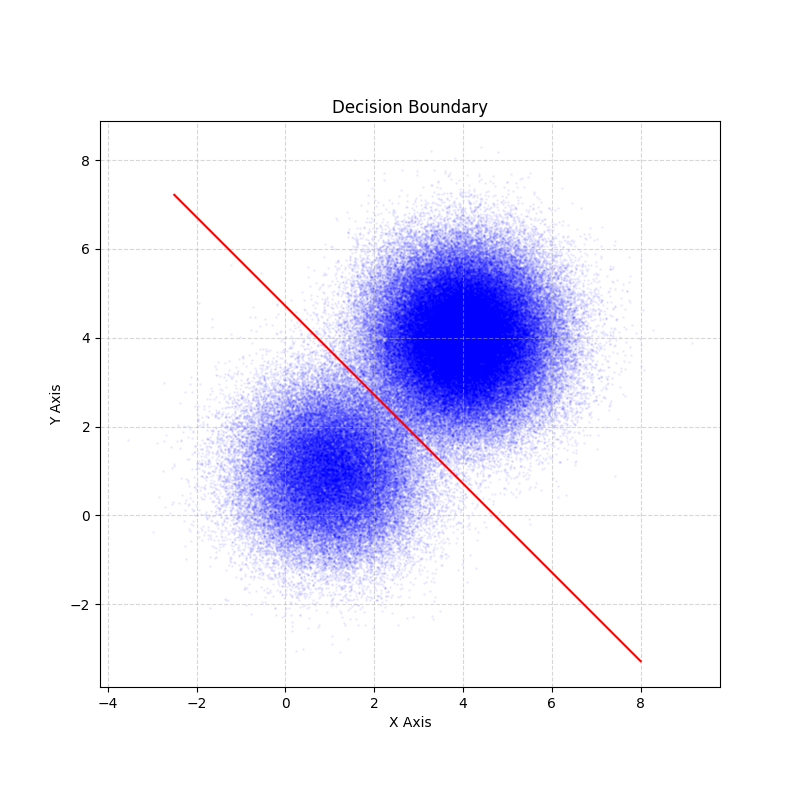
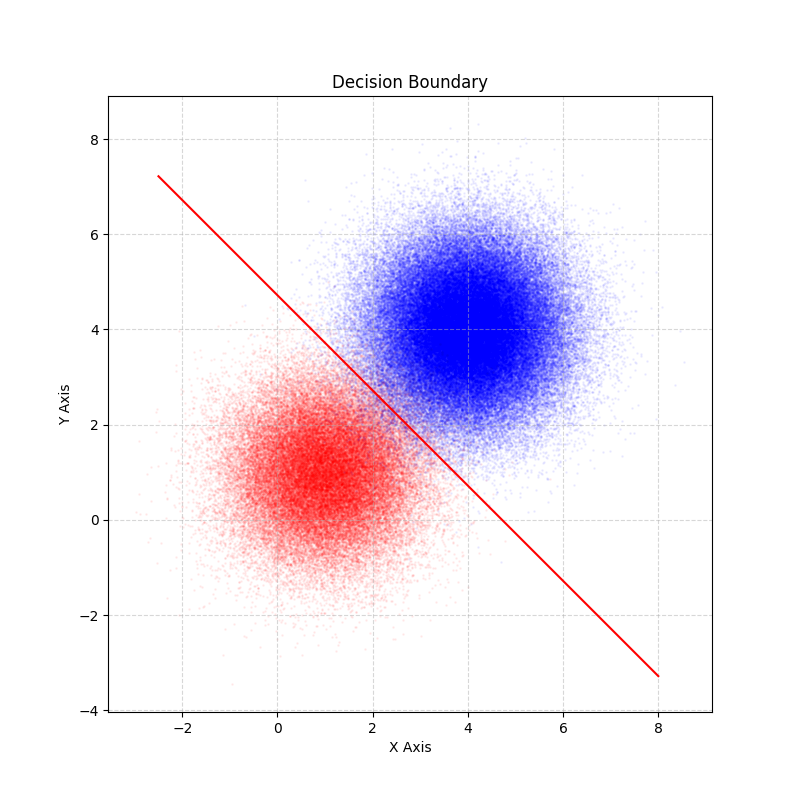
Changed plot colors

diff --git a/main.py b/main.py
@@ -26,26 +26,26 @@ for x in combined_set:
     elif (result == 2):
         classifications[tuple(x)] = result
 
-# model said 1, actual 2
-missclassified_s1 = 0
-# model said 2, actual 1
-missclassified_s2 = 0
+# # model said 1, actual 2
+# missclassified_s1 = 0
+# # model said 2, actual 1
+# missclassified_s2 = 0
 
-for key, value in classifications.items():
-    # model said 1, actual 2
-    if (key in set2 and value == 1):
-        missclassified_s1 += 1
+# for key, value in classifications.items():
+#     # model said 1, actual 2
+#     if (key in set2 and value == 1):
+#         missclassified_s1 += 1
 
-    if (key in set1 and value == 2):
-        missclassified_s2 += 1
+#     if (key in set1 and value == 2):
+#         missclassified_s2 += 1
 
-s1_miss_rate = missclassified_s1/len(set1)
-s2_miss_rate = missclassified_s2/len(set2)
-total_miss_rate = (missclassified_s1 + missclassified_s2)/len(combined_set)
+# s1_miss_rate = missclassified_s1/len(set1)
+# s2_miss_rate = missclassified_s2/len(set2)
+# total_miss_rate = (missclassified_s1 + missclassified_s2)/len(combined_set)
 
-print(s1_miss_rate)
-print(s2_miss_rate)
-print(total_miss_rate)
+# print(s1_miss_rate)
+# print(s2_miss_rate)
+# print(total_miss_rate)
 
 plot_gaussian_dataset(set1, set2, "Decision Boundary")
 

diff --git a/plot_data.py b/plot_data.py
@@ -16,7 +16,8 @@ def plot_gaussian_dataset(data1, data2, title, color="blue"):
     y = np.append(y1, y2)
     
     fig, ax = plt.subplots(figsize=(8, 8))
-    ax.scatter(x, y, color=color, s=1, alpha=0.05)
+    ax.scatter(x1, y1, color="red", s=1, alpha=0.05)
+    ax.scatter(x2, y2, color=color, s=1, alpha=0.05)
     ax.set_aspect('equal')
     
     # # ax.axline(boundary_x, boundary_y, color="red")
